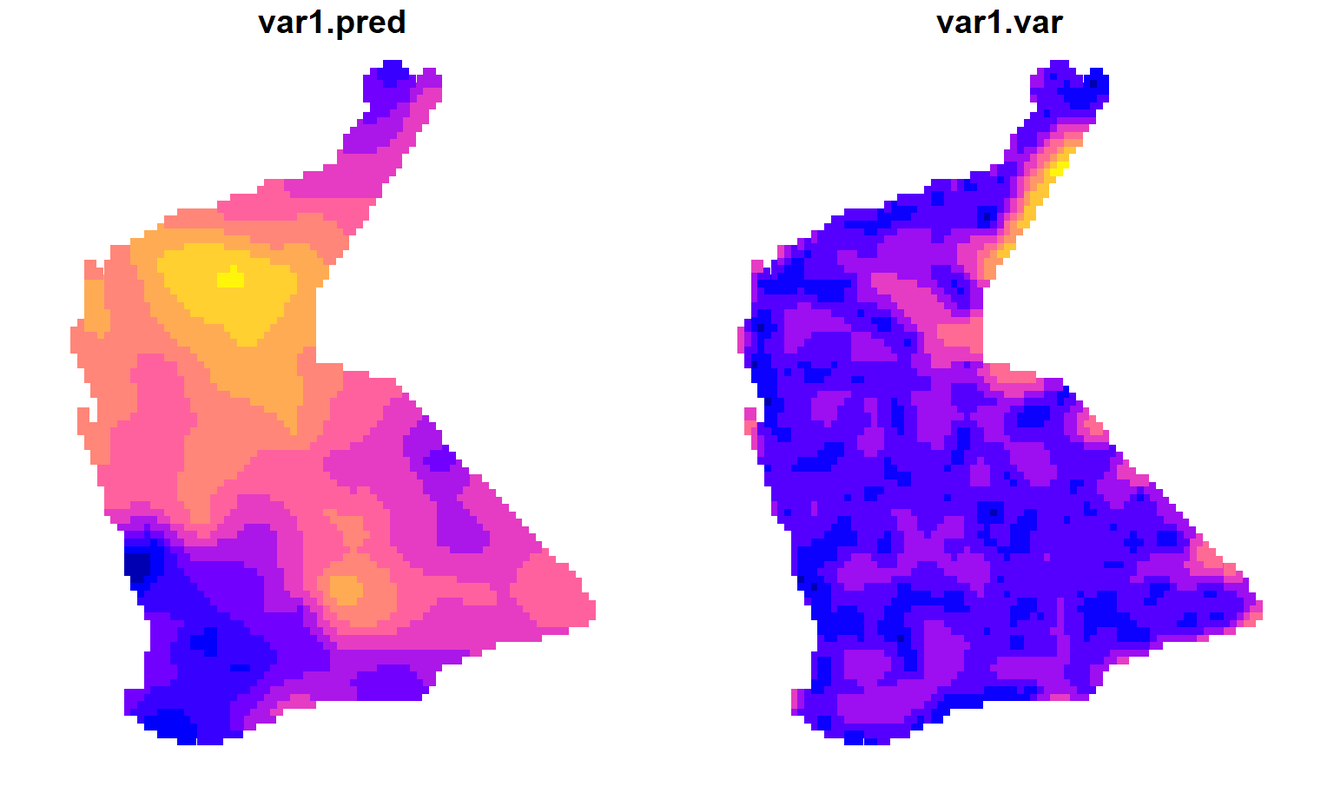
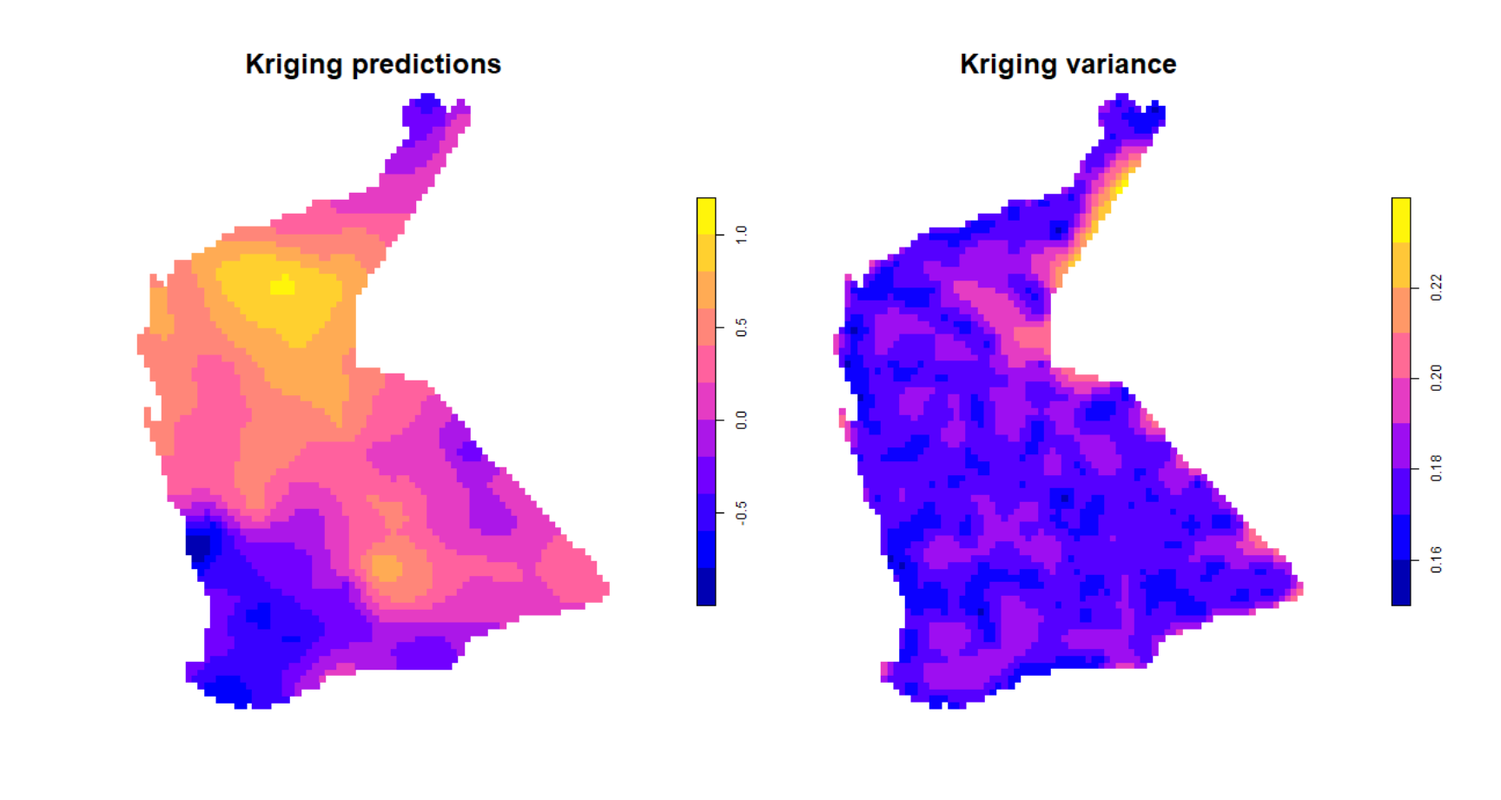
fixed basic kriging pred & variance plots with file write-read hack

Changed region(s): [[0.5312, 0.0, 0.9688, 0.9425], [0.0312, 0.0, 0.5, 0.9425]]

diff --git a/geostats.html b/geostats.html
@@ -321,7 +321,7 @@ visualization</h1>
 <h1>Geostatistics and Data Mapping in <strong>R</strong></h1>
 <p>In this guide we use a range of R packages for different functions,
 shown in Table 1.</p>
-<template id="8b757ce1-6c95-471a-b079-f3e61927aac3"><style>
+<template id="dea73b9d-1637-4959-9c2c-926c3c134401"><style>
 .tabwid table{
   border-spacing:0px !important;
   border-collapse:collapse;
@@ -360,11 +360,11 @@ background-color: transparent;
 .katex-display {
     margin: 0 0 !important;
 }
-</style><div class="tabwid"><style>.cl-356d4cc8{}.cl-355e5132{font-family:'Arial';font-size:10pt;font-weight:bold;font-style:normal;text-decoration:none;color:rgba(0, 0, 0, 1.00);background-color:transparent;}.cl-355e5146{font-family:'Courier New';font-size:10pt;font-weight:normal;font-style:normal;text-decoration:none;color:rgba(0, 0, 0, 1.00);background-color:transparent;}.cl-355e5150{font-family:'Arial';font-size:10pt;font-weight:normal;font-style:normal;text-decoration:none;color:rgba(0, 0, 0, 1.00);background-color:transparent;}.cl-35649ce0{margin:0;text-align:left;border-bottom: 0 solid rgba(0, 0, 0, 1.00);border-top: 0 solid rgba(0, 0, 0, 1.00);border-left: 0 solid rgba(0, 0, 0, 1.00);border-right: 0 solid rgba(0, 0, 0, 1.00);padding-bottom:5pt;padding-top:5pt;padding-left:5pt;padding-right:5pt;line-height: 1;background-color:transparent;}.cl-3564c81e{width:1.2in;background-color:rgba(207, 207, 207, 1.00);vertical-align: middle;border-bottom: 1pt solid rgba(181, 195, 223, 1.00);border-top: 1pt solid rgba(181, 195, 223, 1.00);border-left: 1pt solid rgba(181, 195, 223, 1.00);border-right: 0 solid rgba(0, 0, 0, 1.00);margin-bottom:0;margin-top:0;margin-left:0;margin-right:0;}.cl-3564c832{width:4.5in;background-color:rgba(207, 207, 207, 1.00);vertical-align: middle;border-bottom: 1pt solid rgba(181, 195, 223, 1.00);border-top: 1pt solid rgba(181, 195, 223, 1.00);border-left: 0 solid rgba(0, 0, 0, 1.00);border-right: 0 solid rgba(0, 0, 0, 1.00);margin-bottom:0;margin-top:0;margin-left:0;margin-right:0;}.cl-3564c83c{width:2.5in;background-color:rgba(207, 207, 207, 1.00);vertical-align: middle;border-bottom: 1pt solid rgba(181, 195, 223, 1.00);border-top: 1pt solid rgba(181, 195, 223, 1.00);border-left: 0 solid rgba(0, 0, 0, 1.00);border-right: 1pt solid rgba(181, 195, 223, 1.00);margin-bottom:0;margin-top:0;margin-left:0;margin-right:0;}.cl-3564c846{width:1.2in;background-color:rgba(239, 239, 239, 1.00);vertical-align: middle;border-bottom: 0 solid rgba(0, 0, 0, 1.00);border-top: 0 solid rgba(0, 0, 0, 1.00);border-left: 1pt solid rgba(181, 195, 223, 1.00);border-right: 0 solid rgba(0, 0, 0, 1.00);margin-bottom:0;margin-top:0;margin-left:0;margin-right:0;}.cl-3564c850{width:4.5in;background-color:rgba(239, 239, 239, 1.00);vertical-align: middle;border-bottom: 0 solid rgba(0, 0, 0, 1.00);border-top: 0 solid rgba(0, 0, 0, 1.00);border-left: 0 solid rgba(0, 0, 0, 1.00);border-right: 0 solid rgba(0, 0, 0, 1.00);margin-bottom:0;margin-top:0;margin-left:0;margin-right:0;}.cl-3564c85a{width:2.5in;background-color:rgba(239, 239, 239, 1.00);vertical-align: middle;border-bottom: 0 solid rgba(0, 0, 0, 1.00);border-top: 0 solid rgba(0, 0, 0, 1.00);border-left: 0 solid rgba(0, 0, 0, 1.00);border-right: 1pt solid rgba(181, 195, 223, 1.00);margin-bottom:0;margin-top:0;margin-left:0;margin-right:0;}.cl-3564c85b{width:1.2in;background-color:transparent;vertical-align: middle;border-bottom: 0 solid rgba(0, 0, 0, 1.00);border-top: 0 solid rgba(0, 0, 0, 1.00);border-left: 1pt solid rgba(181, 195, 223, 1.00);border-right: 0 solid rgba(0, 0, 0, 1.00);margin-bottom:0;margin-top:0;margin-left:0;margin-right:0;}.cl-3564c864{width:4.5in;background-color:transparent;vertical-align: middle;border-bottom: 0 solid rgba(0, 0, 0, 1.00);border-top: 0 solid rgba(0, 0, 0, 1.00);border-left: 0 solid rgba(0, 0, 0, 1.00);border-right: 0 solid rgba(0, 0, 0, 1.00);margin-bottom:0;margin-top:0;margin-left:0;margin-right:0;}.cl-3564c878{width:2.5in;background-color:transparent;vertical-align: middle;border-bottom: 0 solid rgba(0, 0, 0, 1.00);border-top: 0 solid rgba(0, 0, 0, 1.00);border-left: 0 solid rgba(0, 0, 0, 1.00);border-right: 1pt solid rgba(181, 195, 223, 1.00);margin-bottom:0;margin-top:0;margin-left:0;margin-right:0;}.cl-3564c879{width:1.2in;background-color:transparent;vertical-align: middle;border-bottom: 1pt solid rgba(181, 195, 223, 1.00);border-top: 0 solid rgba(0, 0, 0, 1.00);border-left: 1pt solid rgba(181, 195, 223, 1.00);border-right: 0 solid rgba(0, 0, 0, 1.00);margin-bottom:0;margin-top:0;margin-left:0;margin-right:0;}.cl-3564c882{width:4.5in;background-color:transparent;vertical-align: middle;border-bottom: 1pt solid rgba(181, 195, 223, 1.00);border-top: 0 solid rgba(0, 0, 0, 1.00);border-left: 0 solid rgba(0, 0, 0, 1.00);border-right: 0 solid rgba(0, 0, 0, 1.00);margin-bottom:0;margin-top:0;margin-left:0;margin-right:0;}.cl-3564c88c{width:2.5in;background-color:transparent;vertical-align: middle;border-bottom: 1pt solid rgba(181, 195, 223, 1.00);border-top: 0 solid rgba(0, 0, 0, 1.00);border-left: 0 solid rgba(0, 0, 0, 1.00);border-right: 1pt solid rgba(181, 195, 223, 1.00);margin-bottom:0;margin-top:0;margin-left:0;margin-right:0;}.cl-3555b810{font-family:'Arial';font-size:10pt;font-weight:normal;font-style:normal;text-decoration:none;color:rgba(0, 0, 0, 1.00);background-color:transparent;}</style><table class='cl-356d4cc8'><caption><span class="cl-3555b810">Table 1: R packages used for spatial data analysis and visualisation.</span></caption><thead><tr style="overflow-wrap:break-word;"><td class="cl-3564c81e"><p class="cl-35649ce0"><span class="cl-355e5132">Package</span></p></td><td class="cl-3564c832"><p class="cl-35649ce0"><span class="cl-355e5132">Purpose</span></p></td><td class="cl-3564c83c"><p class="cl-35649ce0"><span class="cl-355e5132">Reference</span></p></td></tr></thead><tbody><tr style="overflow-wrap:break-word;"><td class="cl-3564c846"><p class="cl-35649ce0"><span class="cl-355e5146">sf</span></p></td><td class="cl-3564c850"><p class="cl-35649ce0"><span class="cl-355e5150">Spatial data handling, formatting, and storing spatial data</span></p></td><td class="cl-3564c85a"><p class="cl-35649ce0"><span class="cl-355e5150">Pebesma (2018)</span></p></td></tr><tr style="overflow-wrap:break-word;"><td class="cl-3564c85b"><p class="cl-35649ce0"><span class="cl-355e5146">gstat</span></p></td><td class="cl-3564c864"><p class="cl-35649ce0"><span class="cl-355e5150">Geostatistics (variograms and variogram models, kriging)</span></p></td><td class="cl-3564c878"><p class="cl-35649ce0"><span class="cl-355e5150">Pebesma (2004)</span></p></td></tr><tr style="overflow-wrap:break-word;"><td class="cl-3564c846"><p class="cl-35649ce0"><span class="cl-355e5146">sp</span></p></td><td class="cl-3564c850"><p class="cl-35649ce0"><span class="cl-355e5150">Handling, formatting, and storing spatial data; some graphical functions</span></p></td><td class="cl-3564c85a"><p class="cl-35649ce0"><span class="cl-355e5150">Pebesma and Bivand (2005)</span></p></td></tr><tr style="overflow-wrap:break-word;"><td class="cl-3564c85b"><p class="cl-35649ce0"><span class="cl-355e5146">maps</span></p></td><td class="cl-3564c864"><p class="cl-35649ce0"><span class="cl-355e5150">Simple map outlines</span></p></td><td class="cl-3564c878"><p class="cl-35649ce0"><span class="cl-355e5150">Becker et al. (2021)</span></p></td></tr><tr style="overflow-wrap:break-word;"><td class="cl-3564c846"><p class="cl-35649ce0"><span class="cl-355e5146">spdep</span></p></td><td class="cl-3564c850"><p class="cl-35649ce0"><span class="cl-355e5150">Spatial autocorrelation, LISA</span></p></td><td class="cl-3564c85a"><p class="cl-35649ce0"><span class="cl-355e5150">Pebesma and Bivand (2023)</span></p></td></tr><tr style="overflow-wrap:break-word;"><td class="cl-3564c85b"><p class="cl-35649ce0"><span class="cl-355e5146">lctools</span></p></td><td class="cl-3564c864"><p class="cl-35649ce0"><span class="cl-355e5150">Spatial autocorrelation</span></p></td><td class="cl-3564c878"><p class="cl-35649ce0"><span class="cl-355e5150">Kalogirou (2020)</span></p></td></tr><tr style="overflow-wrap:break-word;"><td class="cl-3564c846"><p class="cl-35649ce0"><span class="cl-355e5146">maptiles</span></p></td><td class="cl-3564c850"><p class="cl-35649ce0"><span class="cl-355e5150">Retrieving and plotting tile-based map data</span></p></td><td class="cl-3564c85a"><p class="cl-35649ce0"><span class="cl-355e5150">Giraud (2021)</span></p></td></tr><tr style="overflow-wrap:break-word;"><td class="cl-3564c85b"><p class="cl-35649ce0"><span class="cl-355e5146">prettymapr</span></p></td><td class="cl-3564c864"><p class="cl-35649ce0"><span class="cl-355e5150">Map annotations</span></p></td><td class="cl-3564c878"><p class="cl-35649ce0"><span class="cl-355e5150">Dunnington (2022)</span></p></td></tr><tr style="overflow-wrap:break-word;"><td class="cl-3564c846"><p class="cl-35649ce0"><span class="cl-355e5146">fields</span></p></td><td class="cl-3564c850"><p class="cl-35649ce0"><span class="cl-355e5150">Visualizing spatial data with irregular grids</span></p></td><td class="cl-3564c85a"><p class="cl-35649ce0"><span class="cl-355e5150">Nychka et al. (2021)</span></p></td></tr><tr style="overflow-wrap:break-word;"><td class="cl-3564c879"><p class="cl-35649ce0"><span class="cl-355e5146">viridis</span></p></td><td class="cl-3564c882"><p class="cl-35649ce0"><span class="cl-355e5150">Colourblind-friendly colour palettes for maps</span></p></td><td class="cl-3564c88c"><p class="cl-35649ce0"><span class="cl-355e5150">Garnier et al. (2021)</span></p></td></tr></tbody></table></div></template>
-<div class="flextable-shadow-host" id="2c373030-70c9-466c-9f31-47b67267b105"></div>
+</style><div class="tabwid"><style>.cl-e89e9ed2{}.cl-e88966e8{font-family:'Arial';font-size:10pt;font-weight:bold;font-style:normal;text-decoration:none;color:rgba(0, 0, 0, 1.00);background-color:transparent;}.cl-e88966fc{font-family:'Courier New';font-size:10pt;font-weight:normal;font-style:normal;text-decoration:none;color:rgba(0, 0, 0, 1.00);background-color:transparent;}.cl-e8896710{font-family:'Arial';font-size:10pt;font-weight:normal;font-style:normal;text-decoration:none;color:rgba(0, 0, 0, 1.00);background-color:transparent;}.cl-e891aff6{margin:0;text-align:left;border-bottom: 0 solid rgba(0, 0, 0, 1.00);border-top: 0 solid rgba(0, 0, 0, 1.00);border-left: 0 solid rgba(0, 0, 0, 1.00);border-right: 0 solid rgba(0, 0, 0, 1.00);padding-bottom:5pt;padding-top:5pt;padding-left:5pt;padding-right:5pt;line-height: 1;background-color:transparent;}.cl-e891db48{width:1.2in;background-color:rgba(207, 207, 207, 1.00);vertical-align: middle;border-bottom: 1pt solid rgba(181, 195, 223, 1.00);border-top: 1pt solid rgba(181, 195, 223, 1.00);border-left: 1pt solid rgba(181, 195, 223, 1.00);border-right: 0 solid rgba(0, 0, 0, 1.00);margin-bottom:0;margin-top:0;margin-left:0;margin-right:0;}.cl-e891db52{width:4.5in;background-color:rgba(207, 207, 207, 1.00);vertical-align: middle;border-bottom: 1pt solid rgba(181, 195, 223, 1.00);border-top: 1pt solid rgba(181, 195, 223, 1.00);border-left: 0 solid rgba(0, 0, 0, 1.00);border-right: 0 solid rgba(0, 0, 0, 1.00);margin-bottom:0;margin-top:0;margin-left:0;margin-right:0;}.cl-e891db5c{width:2.5in;background-color:rgba(207, 207, 207, 1.00);vertical-align: middle;border-bottom: 1pt solid rgba(181, 195, 223, 1.00);border-top: 1pt solid rgba(181, 195, 223, 1.00);border-left: 0 solid rgba(0, 0, 0, 1.00);border-right: 1pt solid rgba(181, 195, 223, 1.00);margin-bottom:0;margin-top:0;margin-left:0;margin-right:0;}.cl-e891db66{width:1.2in;background-color:rgba(239, 239, 239, 1.00);vertical-align: middle;border-bottom: 0 solid rgba(0, 0, 0, 1.00);border-top: 0 solid rgba(0, 0, 0, 1.00);border-left: 1pt solid rgba(181, 195, 223, 1.00);border-right: 0 solid rgba(0, 0, 0, 1.00);margin-bottom:0;margin-top:0;margin-left:0;margin-right:0;}.cl-e891db67{width:4.5in;background-color:rgba(239, 239, 239, 1.00);vertical-align: middle;border-bottom: 0 solid rgba(0, 0, 0, 1.00);border-top: 0 solid rgba(0, 0, 0, 1.00);border-left: 0 solid rgba(0, 0, 0, 1.00);border-right: 0 solid rgba(0, 0, 0, 1.00);margin-bottom:0;margin-top:0;margin-left:0;margin-right:0;}.cl-e891db70{width:2.5in;background-color:rgba(239, 239, 239, 1.00);vertical-align: middle;border-bottom: 0 solid rgba(0, 0, 0, 1.00);border-top: 0 solid rgba(0, 0, 0, 1.00);border-left: 0 solid rgba(0, 0, 0, 1.00);border-right: 1pt solid rgba(181, 195, 223, 1.00);margin-bottom:0;margin-top:0;margin-left:0;margin-right:0;}.cl-e891db84{width:1.2in;background-color:transparent;vertical-align: middle;border-bottom: 0 solid rgba(0, 0, 0, 1.00);border-top: 0 solid rgba(0, 0, 0, 1.00);border-left: 1pt solid rgba(181, 195, 223, 1.00);border-right: 0 solid rgba(0, 0, 0, 1.00);margin-bottom:0;margin-top:0;margin-left:0;margin-right:0;}.cl-e891db8e{width:4.5in;background-color:transparent;vertical-align: middle;border-bottom: 0 solid rgba(0, 0, 0, 1.00);border-top: 0 solid rgba(0, 0, 0, 1.00);border-left: 0 solid rgba(0, 0, 0, 1.00);border-right: 0 solid rgba(0, 0, 0, 1.00);margin-bottom:0;margin-top:0;margin-left:0;margin-right:0;}.cl-e891db8f{width:2.5in;background-color:transparent;vertical-align: middle;border-bottom: 0 solid rgba(0, 0, 0, 1.00);border-top: 0 solid rgba(0, 0, 0, 1.00);border-left: 0 solid rgba(0, 0, 0, 1.00);border-right: 1pt solid rgba(181, 195, 223, 1.00);margin-bottom:0;margin-top:0;margin-left:0;margin-right:0;}.cl-e891db98{width:1.2in;background-color:transparent;vertical-align: middle;border-bottom: 1pt solid rgba(181, 195, 223, 1.00);border-top: 0 solid rgba(0, 0, 0, 1.00);border-left: 1pt solid rgba(181, 195, 223, 1.00);border-right: 0 solid rgba(0, 0, 0, 1.00);margin-bottom:0;margin-top:0;margin-left:0;margin-right:0;}.cl-e891dba2{width:4.5in;background-color:transparent;vertical-align: middle;border-bottom: 1pt solid rgba(181, 195, 223, 1.00);border-top: 0 solid rgba(0, 0, 0, 1.00);border-left: 0 solid rgba(0, 0, 0, 1.00);border-right: 0 solid rgba(0, 0, 0, 1.00);margin-bottom:0;margin-top:0;margin-left:0;margin-right:0;}.cl-e891dbac{width:2.5in;background-color:transparent;vertical-align: middle;border-bottom: 1pt solid rgba(181, 195, 223, 1.00);border-top: 0 solid rgba(0, 0, 0, 1.00);border-left: 0 solid rgba(0, 0, 0, 1.00);border-right: 1pt solid rgba(181, 195, 223, 1.00);margin-bottom:0;margin-top:0;margin-left:0;margin-right:0;}.cl-e87e984e{font-family:'Arial';font-size:10pt;font-weight:normal;font-style:normal;text-decoration:none;color:rgba(0, 0, 0, 1.00);background-color:transparent;}</style><table class='cl-e89e9ed2'><caption><span class="cl-e87e984e">Table 1: R packages used for spatial data analysis and visualisation.</span></caption><thead><tr style="overflow-wrap:break-word;"><td class="cl-e891db48"><p class="cl-e891aff6"><span class="cl-e88966e8">Package</span></p></td><td class="cl-e891db52"><p class="cl-e891aff6"><span class="cl-e88966e8">Purpose</span></p></td><td class="cl-e891db5c"><p class="cl-e891aff6"><span class="cl-e88966e8">Reference</span></p></td></tr></thead><tbody><tr style="overflow-wrap:break-word;"><td class="cl-e891db66"><p class="cl-e891aff6"><span class="cl-e88966fc">sf</span></p></td><td class="cl-e891db67"><p class="cl-e891aff6"><span class="cl-e8896710">Spatial data handling, formatting, and storing spatial data</span></p></td><td class="cl-e891db70"><p class="cl-e891aff6"><span class="cl-e8896710">Pebesma (2018)</span></p></td></tr><tr style="overflow-wrap:break-word;"><td class="cl-e891db84"><p class="cl-e891aff6"><span class="cl-e88966fc">gstat</span></p></td><td class="cl-e891db8e"><p class="cl-e891aff6"><span class="cl-e8896710">Geostatistics (variograms and variogram models, kriging)</span></p></td><td class="cl-e891db8f"><p class="cl-e891aff6"><span class="cl-e8896710">Pebesma (2004)</span></p></td></tr><tr style="overflow-wrap:break-word;"><td class="cl-e891db66"><p class="cl-e891aff6"><span class="cl-e88966fc">sp</span></p></td><td class="cl-e891db67"><p class="cl-e891aff6"><span class="cl-e8896710">Handling, formatting, and storing spatial data; some graphical functions</span></p></td><td class="cl-e891db70"><p class="cl-e891aff6"><span class="cl-e8896710">Pebesma and Bivand (2005)</span></p></td></tr><tr style="overflow-wrap:break-word;"><td class="cl-e891db84"><p class="cl-e891aff6"><span class="cl-e88966fc">maps</span></p></td><td class="cl-e891db8e"><p class="cl-e891aff6"><span class="cl-e8896710">Simple map outlines</span></p></td><td class="cl-e891db8f"><p class="cl-e891aff6"><span class="cl-e8896710">Becker et al. (2021)</span></p></td></tr><tr style="overflow-wrap:break-word;"><td class="cl-e891db66"><p class="cl-e891aff6"><span class="cl-e88966fc">spdep</span></p></td><td class="cl-e891db67"><p class="cl-e891aff6"><span class="cl-e8896710">Spatial autocorrelation, LISA</span></p></td><td class="cl-e891db70"><p class="cl-e891aff6"><span class="cl-e8896710">Pebesma and Bivand (2023)</span></p></td></tr><tr style="overflow-wrap:break-word;"><td class="cl-e891db84"><p class="cl-e891aff6"><span class="cl-e88966fc">lctools</span></p></td><td class="cl-e891db8e"><p class="cl-e891aff6"><span class="cl-e8896710">Spatial autocorrelation</span></p></td><td class="cl-e891db8f"><p class="cl-e891aff6"><span class="cl-e8896710">Kalogirou (2020)</span></p></td></tr><tr style="overflow-wrap:break-word;"><td class="cl-e891db66"><p class="cl-e891aff6"><span class="cl-e88966fc">maptiles</span></p></td><td class="cl-e891db67"><p class="cl-e891aff6"><span class="cl-e8896710">Retrieving and plotting tile-based map data</span></p></td><td class="cl-e891db70"><p class="cl-e891aff6"><span class="cl-e8896710">Giraud (2021)</span></p></td></tr><tr style="overflow-wrap:break-word;"><td class="cl-e891db84"><p class="cl-e891aff6"><span class="cl-e88966fc">prettymapr</span></p></td><td class="cl-e891db8e"><p class="cl-e891aff6"><span class="cl-e8896710">Map annotations</span></p></td><td class="cl-e891db8f"><p class="cl-e891aff6"><span class="cl-e8896710">Dunnington (2022)</span></p></td></tr><tr style="overflow-wrap:break-word;"><td class="cl-e891db66"><p class="cl-e891aff6"><span class="cl-e88966fc">fields</span></p></td><td class="cl-e891db67"><p class="cl-e891aff6"><span class="cl-e8896710">Visualizing spatial data with irregular grids</span></p></td><td class="cl-e891db70"><p class="cl-e891aff6"><span class="cl-e8896710">Nychka et al. (2021)</span></p></td></tr><tr style="overflow-wrap:break-word;"><td class="cl-e891db98"><p class="cl-e891aff6"><span class="cl-e88966fc">viridis</span></p></td><td class="cl-e891dba2"><p class="cl-e891aff6"><span class="cl-e8896710">Colourblind-friendly colour palettes for maps</span></p></td><td class="cl-e891dbac"><p class="cl-e891aff6"><span class="cl-e8896710">Garnier et al. (2021)</span></p></td></tr></tbody></table></div></template>
+<div class="flextable-shadow-host" id="6f24c744-79d2-4f2f-903d-61ff3a150190"></div>
 <script>
-var dest = document.getElementById("2c373030-70c9-466c-9f31-47b67267b105");
-var template = document.getElementById("8b757ce1-6c95-471a-b079-f3e61927aac3");
+var dest = document.getElementById("6f24c744-79d2-4f2f-903d-61ff3a150190");
+var template = document.getElementById("dea73b9d-1637-4959-9c2c-926c3c134401");
 var caption = template.content.querySelector("caption");
 var fantome = dest.attachShadow({mode: 'open'});
 var templateContent = template.content;
@@ -842,7 +842,7 @@ frame to plot a map of <strong>l</strong>ocal
 <p>
  
 </p>
-<template id="c587414c-3326-42ca-a38a-c12e2b058916"><style>
+<template id="95dbd7f0-53c9-4627-8fe1-5dc7ee2251bd"><style>
 .tabwid table{
   border-spacing:0px !important;
   border-collapse:collapse;
@@ -881,11 +881,11 @@ background-color: transparent;
 .katex-display {
     margin: 0 0 !important;
 }
-</style><div class="tabwid"><style>.cl-395eb9ca{}.cl-3952e294{font-family:'Arial';font-size:10pt;font-weight:bold;font-style:normal;text-decoration:none;color:rgba(0, 0, 0, 1.00);background-color:transparent;}.cl-3952e29e{font-family:'Arial';font-size:6pt;font-weight:bold;font-style:normal;text-decoration:none;color:rgba(0, 0, 0, 1.00);background-color:transparent;position: relative;bottom:3pt;}.cl-3952e2a8{font-family:'Arial';font-size:10pt;font-weight:normal;font-style:normal;text-decoration:none;color:rgba(0, 0, 0, 1.00);background-color:transparent;}.cl-3952e2a9{font-family:'Arial';font-size:10pt;font-weight:normal;font-style:normal;text-decoration:none;color:rgba(0, 0, 255, 1.00);background-color:transparent;}.cl-3952e2aa{font-family:'Arial';font-size:10pt;font-weight:normal;font-style:normal;text-decoration:none;color:rgba(255, 0, 0, 1.00);background-color:transparent;}.cl-3952e2b2{font-family:'Arial';font-size:6pt;font-weight:normal;font-style:normal;text-decoration:none;color:rgba(0, 0, 0, 1.00);background-color:transparent;position: relative;bottom:3pt;}.cl-395741ea{margin:0;text-align:left;border-bottom: 0 solid rgba(0, 0, 0, 1.00);border-top: 0 solid rgba(0, 0, 0, 1.00);border-left: 0 solid rgba(0, 0, 0, 1.00);border-right: 0 solid rgba(0, 0, 0, 1.00);padding-bottom:5pt;padding-top:5pt;padding-left:5pt;padding-right:5pt;line-height: 1;background-color:transparent;}.cl-3957679c{width:2.4in;background-color:rgba(207, 207, 207, 1.00);vertical-align: middle;border-bottom: 1pt solid rgba(181, 195, 223, 1.00);border-top: 1pt solid rgba(181, 195, 223, 1.00);border-left: 1pt solid rgba(181, 195, 223, 1.00);border-right: 0 solid rgba(0, 0, 0, 1.00);margin-bottom:0;margin-top:0;margin-left:0;margin-right:0;}.cl-395767b0{width:2.4in;background-color:rgba(207, 207, 207, 1.00);vertical-align: middle;border-bottom: 1pt solid rgba(181, 195, 223, 1.00);border-top: 1pt solid rgba(181, 195, 223, 1.00);border-left: 0 solid rgba(0, 0, 0, 1.00);border-right: 0 solid rgba(0, 0, 0, 1.00);margin-bottom:0;margin-top:0;margin-left:0;margin-right:0;}.cl-395767ba{width:2.4in;background-color:rgba(207, 207, 207, 1.00);vertical-align: middle;border-bottom: 1pt solid rgba(181, 195, 223, 1.00);border-top: 1pt solid rgba(181, 195, 223, 1.00);border-left: 0 solid rgba(0, 0, 0, 1.00);border-right: 1pt solid rgba(181, 195, 223, 1.00);margin-bottom:0;margin-top:0;margin-left:0;margin-right:0;}.cl-395767c4{width:2.4in;background-color:rgba(239, 239, 239, 1.00);vertical-align: middle;border-bottom: 0 solid rgba(0, 0, 0, 1.00);border-top: 0 solid rgba(0, 0, 0, 1.00);border-left: 1pt solid rgba(181, 195, 223, 1.00);border-right: 0 solid rgba(0, 0, 0, 1.00);margin-bottom:0;margin-top:0;margin-left:0;margin-right:0;}.cl-395767ce{width:2.4in;background-color:rgba(239, 239, 239, 1.00);vertical-align: middle;border-bottom: 0 solid rgba(0, 0, 0, 1.00);border-top: 0 solid rgba(0, 0, 0, 1.00);border-left: 0 solid rgba(0, 0, 0, 1.00);border-right: 0 solid rgba(0, 0, 0, 1.00);margin-bottom:0;margin-top:0;margin-left:0;margin-right:0;}.cl-395767d8{width:2.4in;background-color:rgba(239, 239, 239, 1.00);vertical-align: middle;border-bottom: 0 solid rgba(0, 0, 0, 1.00);border-top: 0 solid rgba(0, 0, 0, 1.00);border-left: 0 solid rgba(0, 0, 0, 1.00);border-right: 1pt solid rgba(181, 195, 223, 1.00);margin-bottom:0;margin-top:0;margin-left:0;margin-right:0;}.cl-395767d9{width:2.4in;background-color:transparent;vertical-align: middle;border-bottom: 0 solid rgba(0, 0, 0, 1.00);border-top: 0 solid rgba(0, 0, 0, 1.00);border-left: 1pt solid rgba(181, 195, 223, 1.00);border-right: 0 solid rgba(0, 0, 0, 1.00);margin-bottom:0;margin-top:0;margin-left:0;margin-right:0;}.cl-395767e2{width:2.4in;background-color:transparent;vertical-align: middle;border-bottom: 0 solid rgba(0, 0, 0, 1.00);border-top: 0 solid rgba(0, 0, 0, 1.00);border-left: 0 solid rgba(0, 0, 0, 1.00);border-right: 0 solid rgba(0, 0, 0, 1.00);margin-bottom:0;margin-top:0;margin-left:0;margin-right:0;}.cl-395767ec{width:2.4in;background-color:transparent;vertical-align: middle;border-bottom: 0 solid rgba(0, 0, 0, 1.00);border-top: 0 solid rgba(0, 0, 0, 1.00);border-left: 0 solid rgba(0, 0, 0, 1.00);border-right: 1pt solid rgba(181, 195, 223, 1.00);margin-bottom:0;margin-top:0;margin-left:0;margin-right:0;}.cl-395767f6{width:2.4in;background-color:transparent;vertical-align: middle;border-bottom: 1pt solid rgba(181, 195, 223, 1.00);border-top: 0 solid rgba(0, 0, 0, 1.00);border-left: 1pt solid rgba(181, 195, 223, 1.00);border-right: 0 solid rgba(0, 0, 0, 1.00);margin-bottom:0;margin-top:0;margin-left:0;margin-right:0;}.cl-39576800{width:2.4in;background-color:transparent;vertical-align: middle;border-bottom: 1pt solid rgba(181, 195, 223, 1.00);border-top: 0 solid rgba(0, 0, 0, 1.00);border-left: 0 solid rgba(0, 0, 0, 1.00);border-right: 0 solid rgba(0, 0, 0, 1.00);margin-bottom:0;margin-top:0;margin-left:0;margin-right:0;}.cl-3957680a{width:2.4in;background-color:transparent;vertical-align: middle;border-bottom: 1pt solid rgba(181, 195, 223, 1.00);border-top: 0 solid rgba(0, 0, 0, 1.00);border-left: 0 solid rgba(0, 0, 0, 1.00);border-right: 1pt solid rgba(181, 195, 223, 1.00);margin-bottom:0;margin-top:0;margin-left:0;margin-right:0;}.cl-39576814{width:2.4in;background-color:transparent;vertical-align: middle;border-bottom: 0 solid rgba(255, 255, 255, 0.00);border-top: 0 solid rgba(255, 255, 255, 0.00);border-left: 0 solid rgba(255, 255, 255, 0.00);border-right: 0 solid rgba(255, 255, 255, 0.00);margin-bottom:0;margin-top:0;margin-left:0;margin-right:0;}.cl-394dcdcc{font-family:'Arial';font-size:10pt;font-weight:normal;font-style:normal;text-decoration:none;color:rgba(0, 0, 0, 1.00);background-color:transparent;}</style><table class='cl-395eb9ca'><caption><span class="cl-394dcdcc">Table 2: Explanation of LISA (Local Indicators of Spatial Association) categories.</span></caption><thead><tr style="overflow-wrap:break-word;"><td class="cl-3957679c"><p class="cl-395741ea"><span class="cl-3952e294">LISA quadrant</span></p></td><td class="cl-395767b0"><p class="cl-395741ea"><span class="cl-3952e294">Variable value</span><span class="cl-3952e29e">a</span></p></td><td class="cl-395767ba"><p class="cl-395741ea"><span class="cl-3952e294">Local Moran's I</span></p></td></tr></thead><tbody><tr style="overflow-wrap:break-word;"><td class="cl-395767c4"><p class="cl-395741ea"><span class="cl-3952e2a8">Low-Low</span></p></td><td class="cl-395767ce"><p class="cl-395741ea"><span class="cl-3952e2a9">&lt; median</span></p></td><td class="cl-395767d8"><p class="cl-395741ea"><span class="cl-3952e2aa">positive</span></p></td></tr><tr style="overflow-wrap:break-word;"><td class="cl-395767d9"><p class="cl-395741ea"><span class="cl-3952e2a8">High-Low</span></p></td><td class="cl-395767e2"><p class="cl-395741ea"><span class="cl-3952e2aa">&gt; median</span></p></td><td class="cl-395767ec"><p class="cl-395741ea"><span class="cl-3952e2a9">negative</span></p></td></tr><tr style="overflow-wrap:break-word;"><td class="cl-395767c4"><p class="cl-395741ea"><span class="cl-3952e2a8">Low-High</span></p></td><td class="cl-395767ce"><p class="cl-395741ea"><span class="cl-3952e2a9">&lt; median</span></p></td><td class="cl-395767d8"><p class="cl-395741ea"><span class="cl-3952e2a9">negative</span></p></td></tr><tr style="overflow-wrap:break-word;"><td class="cl-395767f6"><p class="cl-395741ea"><span class="cl-3952e2a8">High-High</span></p></td><td class="cl-39576800"><p class="cl-395741ea"><span class="cl-3952e2aa">&gt; median</span></p></td><td class="cl-3957680a"><p class="cl-395741ea"><span class="cl-3952e2aa">positive</span></p></td></tr></tbody><tfoot><tr style="overflow-wrap:break-word;"><td  colspan="3"class="cl-39576814"><p class="cl-395741ea"><span class="cl-3952e2b2">a</span><span class="cl-3952e2a8">LISA quadrants can also be defined relative to the mean.</span></p></td></tr></tfoot></table></div></template>
-<div class="flextable-shadow-host" id="adc48002-bea7-49e9-89cd-cedaa8102bdf"></div>
+</style><div class="tabwid"><style>.cl-eca866fc{}.cl-ec9a8bd6{font-family:'Arial';font-size:10pt;font-weight:bold;font-style:normal;text-decoration:none;color:rgba(0, 0, 0, 1.00);background-color:transparent;}.cl-ec9a8bea{font-family:'Arial';font-size:6pt;font-weight:bold;font-style:normal;text-decoration:none;color:rgba(0, 0, 0, 1.00);background-color:transparent;position: relative;bottom:3pt;}.cl-ec9a8bf4{font-family:'Arial';font-size:10pt;font-weight:normal;font-style:normal;text-decoration:none;color:rgba(0, 0, 0, 1.00);background-color:transparent;}.cl-ec9a8bfe{font-family:'Arial';font-size:10pt;font-weight:normal;font-style:normal;text-decoration:none;color:rgba(0, 0, 255, 1.00);background-color:transparent;}.cl-ec9a8bff{font-family:'Arial';font-size:10pt;font-weight:normal;font-style:normal;text-decoration:none;color:rgba(255, 0, 0, 1.00);background-color:transparent;}.cl-ec9a8c08{font-family:'Arial';font-size:6pt;font-weight:normal;font-style:normal;text-decoration:none;color:rgba(0, 0, 0, 1.00);background-color:transparent;position: relative;bottom:3pt;}.cl-ec9ff40e{margin:0;text-align:left;border-bottom: 0 solid rgba(0, 0, 0, 1.00);border-top: 0 solid rgba(0, 0, 0, 1.00);border-left: 0 solid rgba(0, 0, 0, 1.00);border-right: 0 solid rgba(0, 0, 0, 1.00);padding-bottom:5pt;padding-top:5pt;padding-left:5pt;padding-right:5pt;line-height: 1;background-color:transparent;}.cl-eca00e58{width:2.4in;background-color:rgba(207, 207, 207, 1.00);vertical-align: middle;border-bottom: 1pt solid rgba(181, 195, 223, 1.00);border-top: 1pt solid rgba(181, 195, 223, 1.00);border-left: 1pt solid rgba(181, 195, 223, 1.00);border-right: 0 solid rgba(0, 0, 0, 1.00);margin-bottom:0;margin-top:0;margin-left:0;margin-right:0;}.cl-eca00e62{width:2.4in;background-color:rgba(207, 207, 207, 1.00);vertical-align: middle;border-bottom: 1pt solid rgba(181, 195, 223, 1.00);border-top: 1pt solid rgba(181, 195, 223, 1.00);border-left: 0 solid rgba(0, 0, 0, 1.00);border-right: 0 solid rgba(0, 0, 0, 1.00);margin-bottom:0;margin-top:0;margin-left:0;margin-right:0;}.cl-eca00e6c{width:2.4in;background-color:rgba(207, 207, 207, 1.00);vertical-align: middle;border-bottom: 1pt solid rgba(181, 195, 223, 1.00);border-top: 1pt solid rgba(181, 195, 223, 1.00);border-left: 0 solid rgba(0, 0, 0, 1.00);border-right: 1pt solid rgba(181, 195, 223, 1.00);margin-bottom:0;margin-top:0;margin-left:0;margin-right:0;}.cl-eca00e6d{width:2.4in;background-color:rgba(239, 239, 239, 1.00);vertical-align: middle;border-bottom: 0 solid rgba(0, 0, 0, 1.00);border-top: 0 solid rgba(0, 0, 0, 1.00);border-left: 1pt solid rgba(181, 195, 223, 1.00);border-right: 0 solid rgba(0, 0, 0, 1.00);margin-bottom:0;margin-top:0;margin-left:0;margin-right:0;}.cl-eca00e76{width:2.4in;background-color:rgba(239, 239, 239, 1.00);vertical-align: middle;border-bottom: 0 solid rgba(0, 0, 0, 1.00);border-top: 0 solid rgba(0, 0, 0, 1.00);border-left: 0 solid rgba(0, 0, 0, 1.00);border-right: 0 solid rgba(0, 0, 0, 1.00);margin-bottom:0;margin-top:0;margin-left:0;margin-right:0;}.cl-eca00e77{width:2.4in;background-color:rgba(239, 239, 239, 1.00);vertical-align: middle;border-bottom: 0 solid rgba(0, 0, 0, 1.00);border-top: 0 solid rgba(0, 0, 0, 1.00);border-left: 0 solid rgba(0, 0, 0, 1.00);border-right: 1pt solid rgba(181, 195, 223, 1.00);margin-bottom:0;margin-top:0;margin-left:0;margin-right:0;}.cl-eca00e80{width:2.4in;background-color:transparent;vertical-align: middle;border-bottom: 0 solid rgba(0, 0, 0, 1.00);border-top: 0 solid rgba(0, 0, 0, 1.00);border-left: 1pt solid rgba(181, 195, 223, 1.00);border-right: 0 solid rgba(0, 0, 0, 1.00);margin-bottom:0;margin-top:0;margin-left:0;margin-right:0;}.cl-eca00e81{width:2.4in;background-color:transparent;vertical-align: middle;border-bottom: 0 solid rgba(0, 0, 0, 1.00);border-top: 0 solid rgba(0, 0, 0, 1.00);border-left: 0 solid rgba(0, 0, 0, 1.00);border-right: 0 solid rgba(0, 0, 0, 1.00);margin-bottom:0;margin-top:0;margin-left:0;margin-right:0;}.cl-eca00e8a{width:2.4in;background-color:transparent;vertical-align: middle;border-bottom: 0 solid rgba(0, 0, 0, 1.00);border-top: 0 solid rgba(0, 0, 0, 1.00);border-left: 0 solid rgba(0, 0, 0, 1.00);border-right: 1pt solid rgba(181, 195, 223, 1.00);margin-bottom:0;margin-top:0;margin-left:0;margin-right:0;}.cl-eca00e8b{width:2.4in;background-color:transparent;vertical-align: middle;border-bottom: 1pt solid rgba(181, 195, 223, 1.00);border-top: 0 solid rgba(0, 0, 0, 1.00);border-left: 1pt solid rgba(181, 195, 223, 1.00);border-right: 0 solid rgba(0, 0, 0, 1.00);margin-bottom:0;margin-top:0;margin-left:0;margin-right:0;}.cl-eca00e94{width:2.4in;background-color:transparent;vertical-align: middle;border-bottom: 1pt solid rgba(181, 195, 223, 1.00);border-top: 0 solid rgba(0, 0, 0, 1.00);border-left: 0 solid rgba(0, 0, 0, 1.00);border-right: 0 solid rgba(0, 0, 0, 1.00);margin-bottom:0;margin-top:0;margin-left:0;margin-right:0;}.cl-eca00e95{width:2.4in;background-color:transparent;vertical-align: middle;border-bottom: 1pt solid rgba(181, 195, 223, 1.00);border-top: 0 solid rgba(0, 0, 0, 1.00);border-left: 0 solid rgba(0, 0, 0, 1.00);border-right: 1pt solid rgba(181, 195, 223, 1.00);margin-bottom:0;margin-top:0;margin-left:0;margin-right:0;}.cl-eca00e9e{width:2.4in;background-color:transparent;vertical-align: middle;border-bottom: 0 solid rgba(255, 255, 255, 0.00);border-top: 0 solid rgba(255, 255, 255, 0.00);border-left: 0 solid rgba(255, 255, 255, 0.00);border-right: 0 solid rgba(255, 255, 255, 0.00);margin-bottom:0;margin-top:0;margin-left:0;margin-right:0;}.cl-ec937fb2{font-family:'Arial';font-size:10pt;font-weight:normal;font-style:normal;text-decoration:none;color:rgba(0, 0, 0, 1.00);background-color:transparent;}</style><table class='cl-eca866fc'><caption><span class="cl-ec937fb2">Table 2: Explanation of LISA (Local Indicators of Spatial Association) categories.</span></caption><thead><tr style="overflow-wrap:break-word;"><td class="cl-eca00e58"><p class="cl-ec9ff40e"><span class="cl-ec9a8bd6">LISA quadrant</span></p></td><td class="cl-eca00e62"><p class="cl-ec9ff40e"><span class="cl-ec9a8bd6">Variable value</span><span class="cl-ec9a8bea">a</span></p></td><td class="cl-eca00e6c"><p class="cl-ec9ff40e"><span class="cl-ec9a8bd6">Local Moran's I</span></p></td></tr></thead><tbody><tr style="overflow-wrap:break-word;"><td class="cl-eca00e6d"><p class="cl-ec9ff40e"><span class="cl-ec9a8bf4">Low-Low</span></p></td><td class="cl-eca00e76"><p class="cl-ec9ff40e"><span class="cl-ec9a8bfe">&lt; median</span></p></td><td class="cl-eca00e77"><p class="cl-ec9ff40e"><span class="cl-ec9a8bff">positive</span></p></td></tr><tr style="overflow-wrap:break-word;"><td class="cl-eca00e80"><p class="cl-ec9ff40e"><span class="cl-ec9a8bf4">High-Low</span></p></td><td class="cl-eca00e81"><p class="cl-ec9ff40e"><span class="cl-ec9a8bff">&gt; median</span></p></td><td class="cl-eca00e8a"><p class="cl-ec9ff40e"><span class="cl-ec9a8bfe">negative</span></p></td></tr><tr style="overflow-wrap:break-word;"><td class="cl-eca00e6d"><p class="cl-ec9ff40e"><span class="cl-ec9a8bf4">Low-High</span></p></td><td class="cl-eca00e76"><p class="cl-ec9ff40e"><span class="cl-ec9a8bfe">&lt; median</span></p></td><td class="cl-eca00e77"><p class="cl-ec9ff40e"><span class="cl-ec9a8bfe">negative</span></p></td></tr><tr style="overflow-wrap:break-word;"><td class="cl-eca00e8b"><p class="cl-ec9ff40e"><span class="cl-ec9a8bf4">High-High</span></p></td><td class="cl-eca00e94"><p class="cl-ec9ff40e"><span class="cl-ec9a8bff">&gt; median</span></p></td><td class="cl-eca00e95"><p class="cl-ec9ff40e"><span class="cl-ec9a8bff">positive</span></p></td></tr></tbody><tfoot><tr style="overflow-wrap:break-word;"><td  colspan="3"class="cl-eca00e9e"><p class="cl-ec9ff40e"><span class="cl-ec9a8c08">a</span><span class="cl-ec9a8bf4">LISA quadrants can also be defined relative to the mean.</span></p></td></tr></tfoot></table></div></template>
+<div class="flextable-shadow-host" id="4d021ea6-3ccd-4721-b50b-8b437608e710"></div>
 <script>
-var dest = document.getElementById("adc48002-bea7-49e9-89cd-cedaa8102bdf");
-var template = document.getElementById("c587414c-3326-42ca-a38a-c12e2b058916");
+var dest = document.getElementById("4d021ea6-3ccd-4721-b50b-8b437608e710");
+var template = document.getElementById("95dbd7f0-53c9-4627-8fe1-5dc7ee2251bd");
 var caption = template.content.querySelector("caption");
 var fantome = dest.attachShadow({mode: 'open'});
 var templateContent = template.content;
@@ -1166,7 +1166,7 @@ the inverse distance weighting parameter <code>idp =</code>.</p>
                       newdata = NGSAgrid, model = vmodel_As.log)
 summary(kriged_As.log)
 cat(&quot;_____________________________________________________________________\n\n&quot;)
-idpower &lt;- 2.5
+idpower &lt;- 3
 idw_As.log &lt;- idw(formula = As.log~1, locations = As.AR_sf, 
                   newdata = NGSAgrid, idp = idpower) # idp = 2 is the default
 summary(idw_As.log)</code></pre>
@@ -1182,12 +1182,12 @@ summary(idw_As.log)</code></pre>
 ## 
 ## [inverse distance weighted interpolation]
 ##    var1.pred           var1.var             geometry   
-##  Min.   :-1.30072   Min.   : NA    POINT        :3500  
-##  1st Qu.:-0.03455   1st Qu.: NA    epsg:4326    :   0  
-##  Median : 0.23292   Median : NA    +proj=long...:   0  
-##  Mean   : 0.19244   Mean   :NaN                        
-##  3rd Qu.: 0.47952   3rd Qu.: NA                        
-##  Max.   : 1.63438   Max.   : NA                        
+##  Min.   :-1.30100   Min.   : NA    POINT        :3500  
+##  1st Qu.:-0.04223   1st Qu.: NA    epsg:4326    :   0  
+##  Median : 0.23489   Median : NA    +proj=long...:   0  
+##  Mean   : 0.19457   Mean   :NaN                        
+##  3rd Qu.: 0.49809   3rd Qu.: NA                        
+##  Max.   : 1.68300   Max.   : NA                        
 ##                     NA&#39;s   :3500</code></pre>
 </div>
 <div id="simple-plot-of-kriging-output" class="section level3">
@@ -1195,10 +1195,13 @@ summary(idw_As.log)</code></pre>
 <p>We can then us the <code>spplot()</code> function from
 <code>sp</code> to visualise the kriging predictions and variance, but
 without a background map (Figure 11).</p>
-<pre class="r"><code>plot(kriged_As.log, colorkey=T, pch=15, # with kriging variances
-    names.attr = c(&quot;log10[As] kriging predictions&quot;,&quot;log10[As] kriging variance&quot;), 
-    scales = list(draw = TRUE), col.regions = viridis::magma(100),
-    xlab=&quot;Longitude&quot;, ylab=&quot;Latitude&quot;)</code></pre>
+<pre class="r"><code>png(file=&quot;krigpred.png&quot;, width = 600, height=600)
+plot(kriged_As.log[1], pch=15, cex=1.2, main=&quot;Kriging predictions&quot;, cex.main=2)
+dev.off()
+png(file=&quot;krigvar.png&quot;, width = 600, height=600)
+plot(kriged_As.log[2], pch=15,cex=1.1, main=&quot;Kriging variance&quot;, cex.main=2)
+dev.off()</code></pre>
+<pre class="r"><code>p1 &lt;- readPNG(&quot;krigpred.png&quot;)</code></pre>
 <div class="figure" style="text-align: center">
 <img src="geostats_files/figure-html/spplot-kriging-output-1.png" alt="Figure 11: Plots of simple kriging predictions (left) and variance (right) for log-transformed arsenic (As) in the WA subset of the NGSA data, -2mm topsoil fraction." width="75%" />
 <p class="caption">
@@ -1207,6 +1210,7 @@ Figure 11: Plots of simple kriging predictions (left) and variance
 data, -2mm topsoil fraction.
 </p>
 </div>
+<pre><code>## [1] TRUE TRUE</code></pre>
 <p>Compare Figure 11 with the output from inverse distance weighted
 (IDW) interpolation (Figure 12). The kriged prediction shows a
 'smoother' spatial pattern, but note that the IDW interpolation can be
